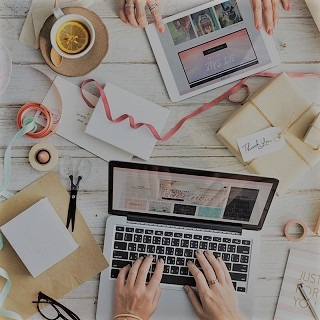
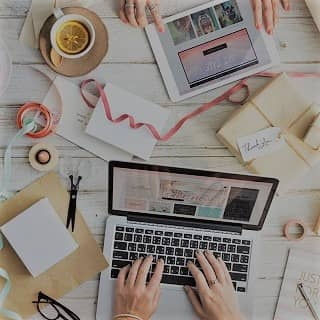
compress images

diff --git a/style.css b/style.css
@@ -290,7 +290,10 @@ a:hover {
 }
 
 #bloc-1-hero h1 {
-    font-size: 32px;
+    font-size: 4rem;
+    text-shadow: #000000 1px 2px;
+    backdrop-filter: contrast(25%);
+    border-radius: 40px;
 }
 
 .navbar {
@@ -800,7 +803,7 @@ h4 {
 }
 
  .tc-white {
-    color: #F3976C !important;
+    color: #F3976C ;
 } 
 
 .btn-atomic-tangerine {
